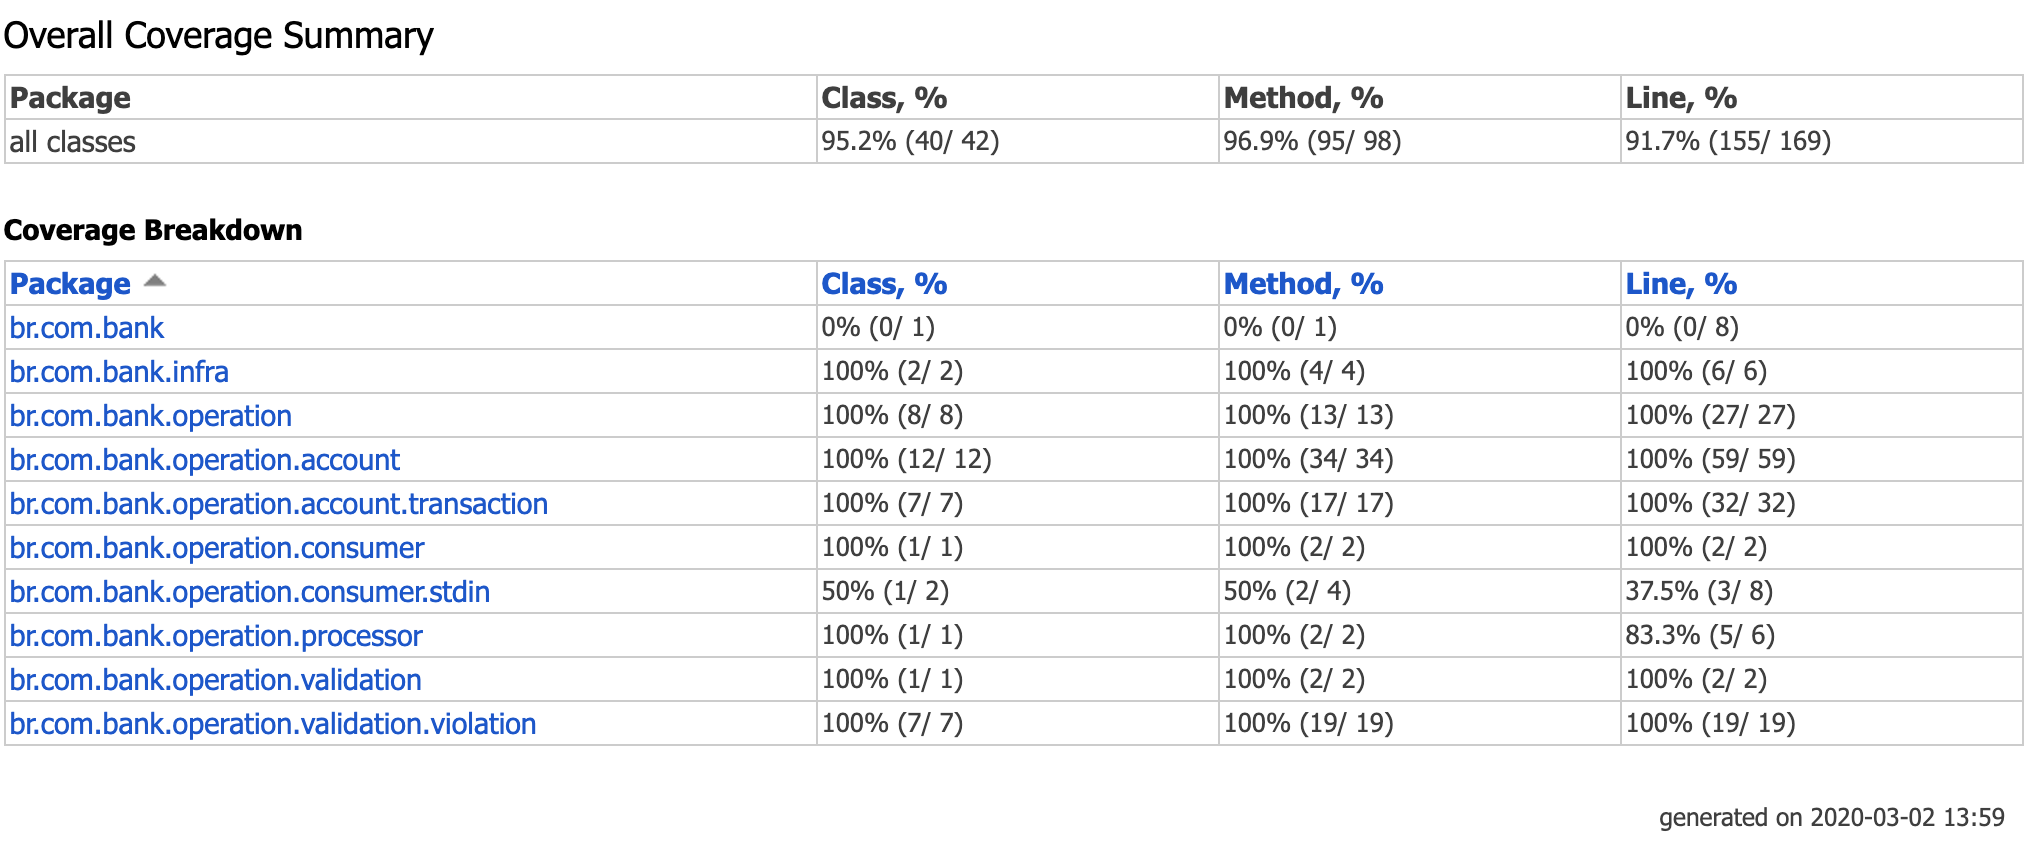
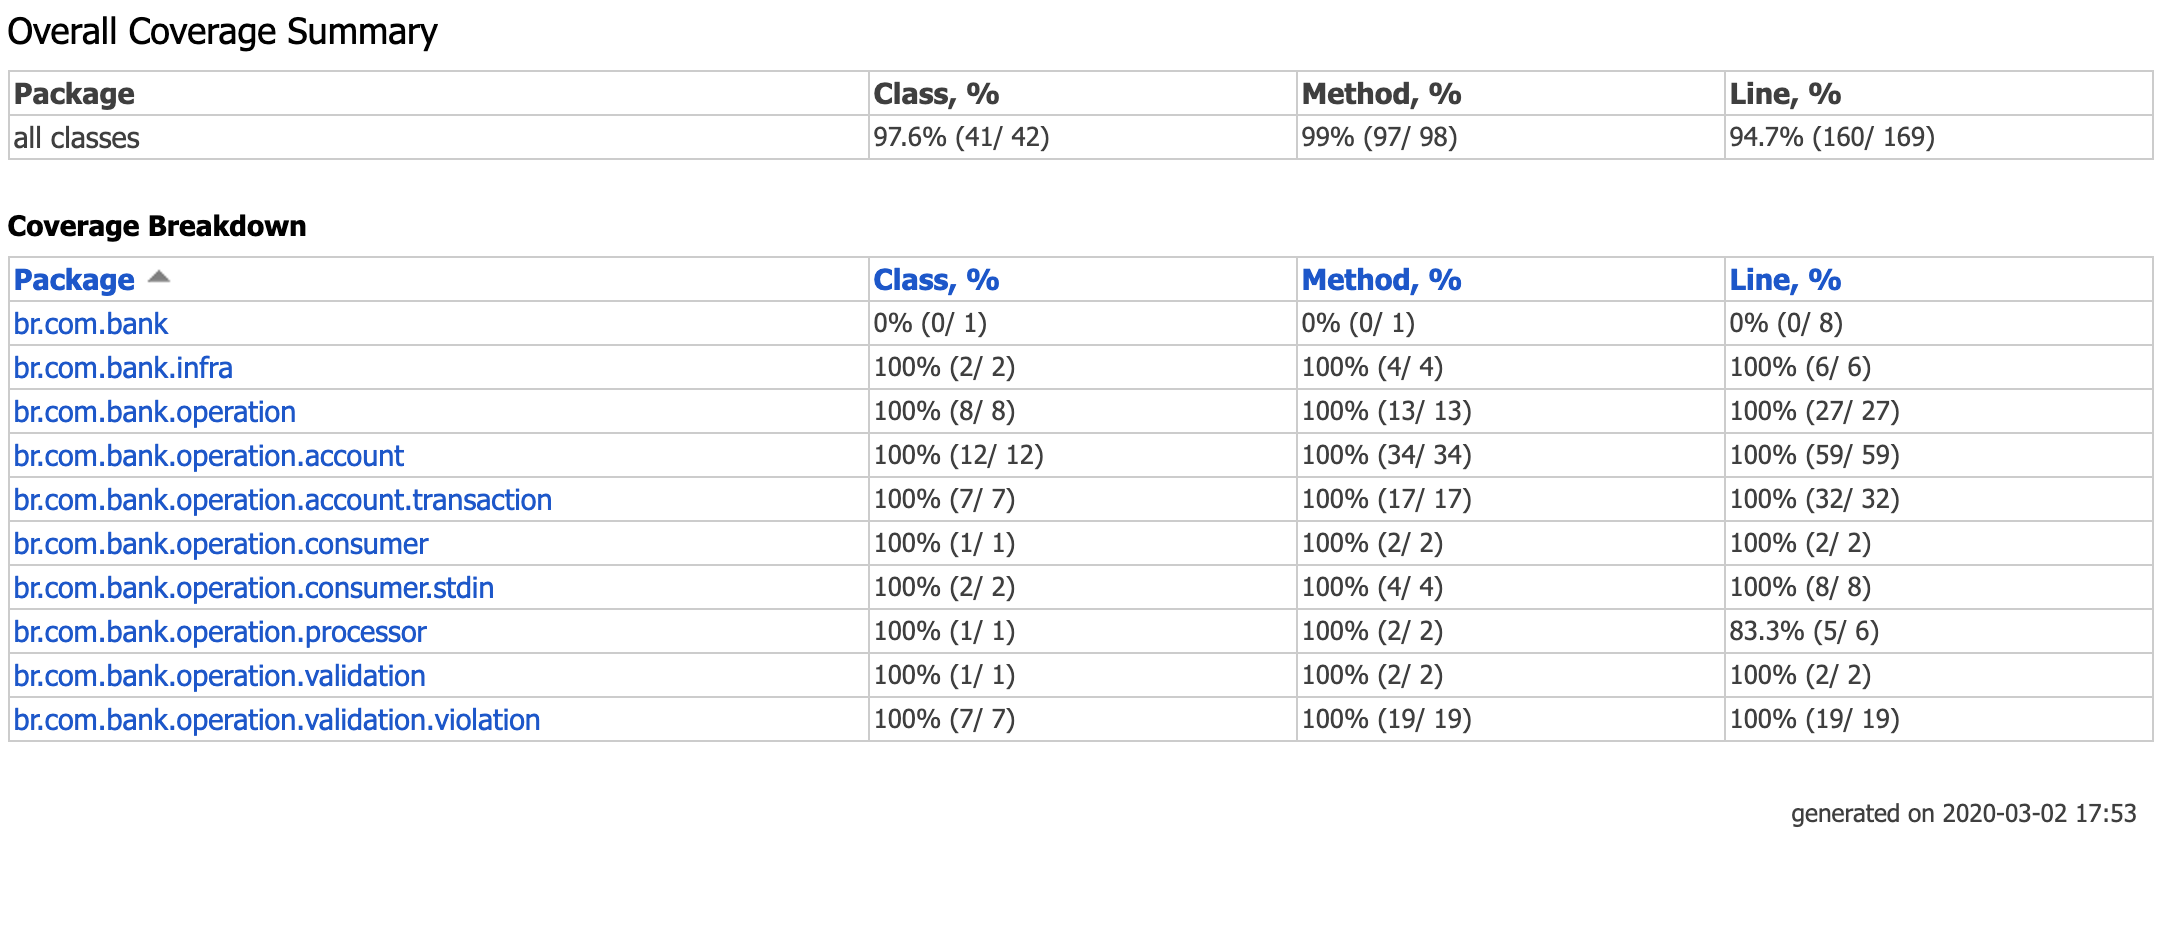
Add StdIn reader test

Changed region(s): [[0.0, 0.2131, 1.0, 0.8829], [0.0, 0.0, 1.0, 0.1827], [0.8022, 0.9438, 0.9873, 0.9742]]

diff --git a/src/test/kotlin/br/com/bank/operation/consumer/stdin/StdInReaderTest.kt b/src/test/kotlin/br/com/bank/operation/consumer/stdin/StdInReaderTest.kt
@@ -1,0 +1,22 @@
+package br.com.bank.operation.consumer.stdin
+
+import io.mockk.every
+import io.mockk.mockkStatic
+import org.junit.Assert.assertEquals
+import org.junit.Test
+
+class StdInReaderTest {
+    @Test
+    fun `should read the input until read the exit code`() {
+        val accountJson = "{\"account\": {\"active-card\": true, \"available-limit\": 100} }"
+        val transactionJson = "{\"transaction\": {\"merchant\": \"Burguer King\", \"amount\": 20, \"time\": \"2019-02-13T11:00:00.000Z\" }}"
+        val exitCode = ""
+
+        mockkStatic("kotlin.io.ConsoleKt")
+        every { readLine() } returns accountJson andThen transactionJson andThen exitCode
+
+        val subject = StdInReader()
+
+        assertEquals(listOf(accountJson, transactionJson), subject.recursiveRead(exitCode = exitCode))
+    }
+}

diff --git a/README.md b/README.md
@@ -1,6 +1,9 @@
 # Bank-Account
 
-### Used Technologies
+### Purpose
+- 
+
+### Technologies
 - Kotlin
 - Gradle
 - Docker
@@ -32,7 +35,7 @@
 {"transaction": {"merchant": "Burger King", "amount": 20, "time": "2019-02-13T11:00:00.000Z" }}
 {"transaction": {"merchant": "Habib's", "amount": 20, "time": "2019-02-13T11:00:00.000Z" }}
 ```
-- If you want to process the events just add a empty line like if you are consuming a unix file (EOL Unix).
+- If you want to process the events just add an empty line like if you are consuming a unix file (EOL Unix).
 
 ### Main decisions
 - Always need to be just one or none account active at the same time.
